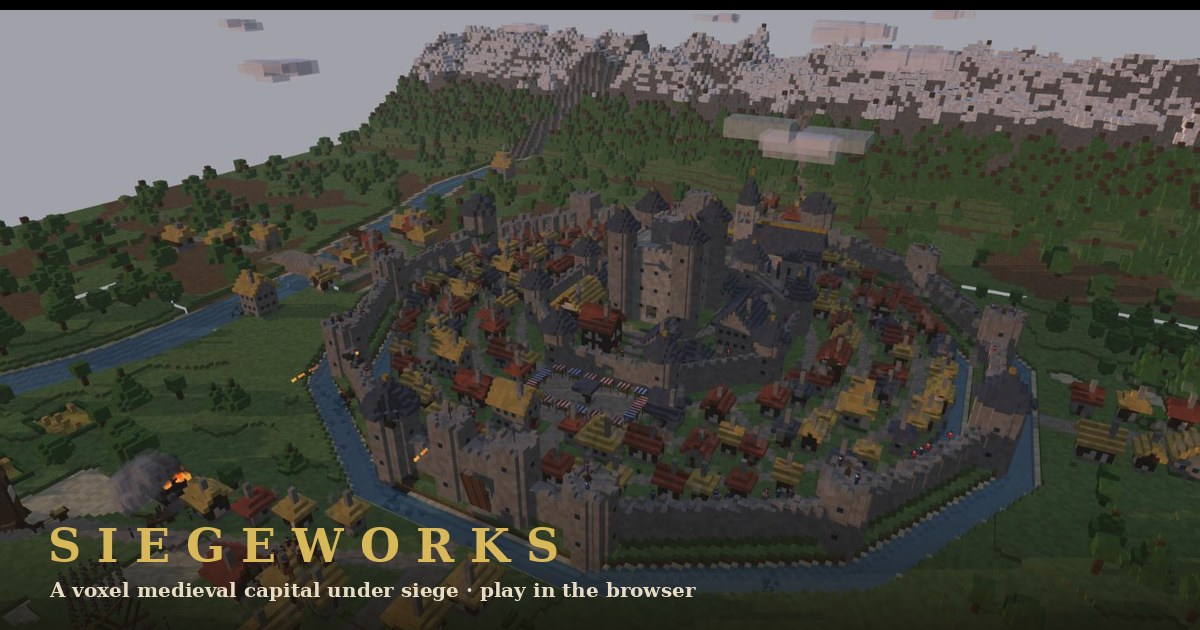
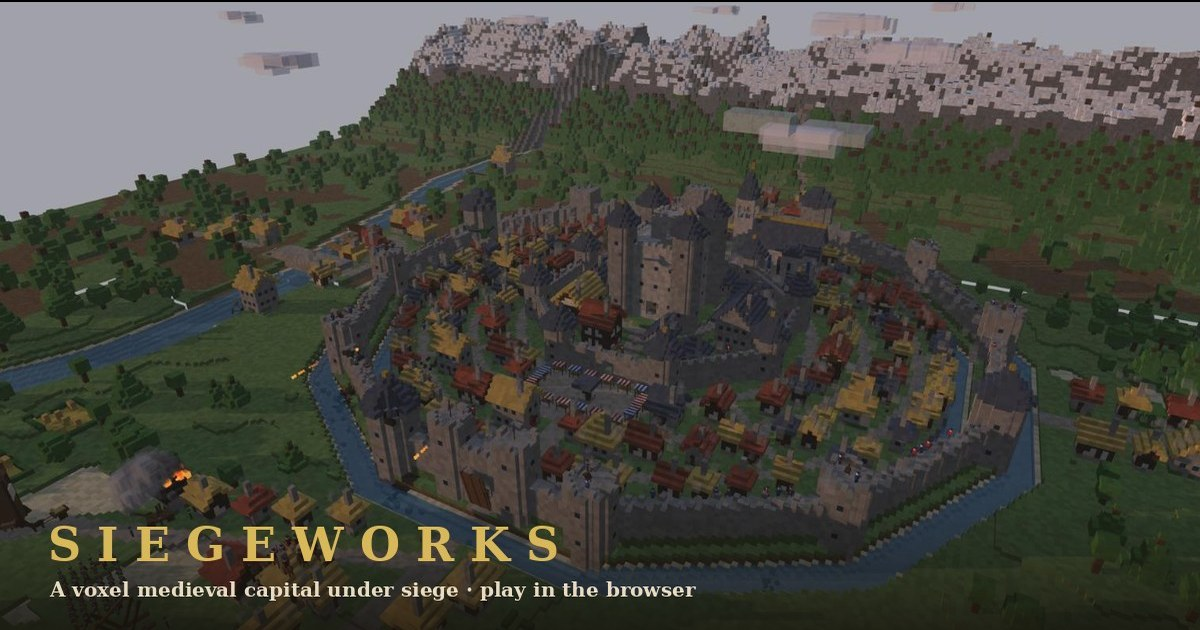
Games index: featured card layout, fix squashed thumbnail, trim OG image

diff --git a/index.html b/index.html
@@ -26,10 +26,18 @@
   main{max-width:960px;margin:0 auto;padding:48px 20px 64px}
   h1{font-weight:normal;letter-spacing:.18em;color:var(--gold);font-size:22px;margin:0 0 6px}
   p.lede{color:var(--muted);margin:0 0 36px;font-size:15px}
-  .grid{display:grid;grid-template-columns:repeat(auto-fill,minmax(280px,1fr));gap:20px}
+  .grid{display:grid;grid-template-columns:repeat(auto-fill,minmax(300px,1fr));gap:20px}
+  a.card.featured{grid-column:1/-1;display:grid;grid-template-columns:minmax(0,3fr) minmax(0,2fr)}
+  a.card.featured img{height:100%;aspect-ratio:auto;min-height:260px}
+  a.card.featured .body{display:flex;flex-direction:column;justify-content:center;padding:28px 32px}
+  a.card.featured h2{font-size:28px;letter-spacing:.14em}
+  a.card.featured p{font-size:15px;line-height:1.6}
+  .play{display:inline-block;margin-top:18px;align-self:flex-start;background:#3a2e1c;border:1px solid #7a6440;color:var(--text);padding:8px 18px;font-size:13px;letter-spacing:.1em}
+  a.card:hover .play{background:#5a4830;border-color:var(--gold)}
+  @media (max-width:700px){a.card.featured{grid-template-columns:1fr}a.card.featured img{min-height:0;aspect-ratio:1200/630;height:auto}a.card.featured .body{padding:16px 18px}}
   a.card{display:block;background:var(--panel);border:1px solid var(--line);color:inherit;text-decoration:none;overflow:hidden;transition:border-color .2s,transform .2s}
   a.card:hover{border-color:var(--gold);transform:translateY(-2px)}
-  a.card img{display:block;width:100%;aspect-ratio:1200/630;object-fit:cover;background:#111}
+  a.card img{display:block;width:100%;height:auto;aspect-ratio:1200/630;object-fit:cover;background:#111}
   a.card .body{padding:14px 16px 16px}
   a.card h2{margin:0 0 6px;font-size:18px;font-weight:normal;color:var(--gold);letter-spacing:.06em}
   a.card p{margin:0;color:var(--muted);font-size:13px;line-height:1.5}
@@ -43,12 +51,13 @@
   <h1>PLAY-GROUNDS GAMES</h1>
   <p class="lede">Small browser games. Open one and play, nothing to install.</p>
   <div class="grid">
-    <a class="card" href="siegeworks/">
+    <a class="card featured" href="siegeworks/">
       <img src="siegeworks/og.jpg" alt="Siegeworks: a voxel medieval city under siege" width="1200" height="630">
       <div class="body">
         <h2>Siegeworks</h2>
-        <p>A voxel diorama of a medieval capital under siege. Watch the town go about its day, then breach the gatehouse, drop a boulder, or summon the dragon.</p>
+        <p>A voxel diorama of a medieval capital under siege. Watch the town go about its day, then breach the gatehouse, drop a boulder, or summon the dragon. Works on desktop and phone.</p>
         <div class="tags">VOXEL · SIEGE · SANDBOX · THREE.JS</div>
+        <span class="play">PLAY</span>
       </div>
     </a>
   </div>
